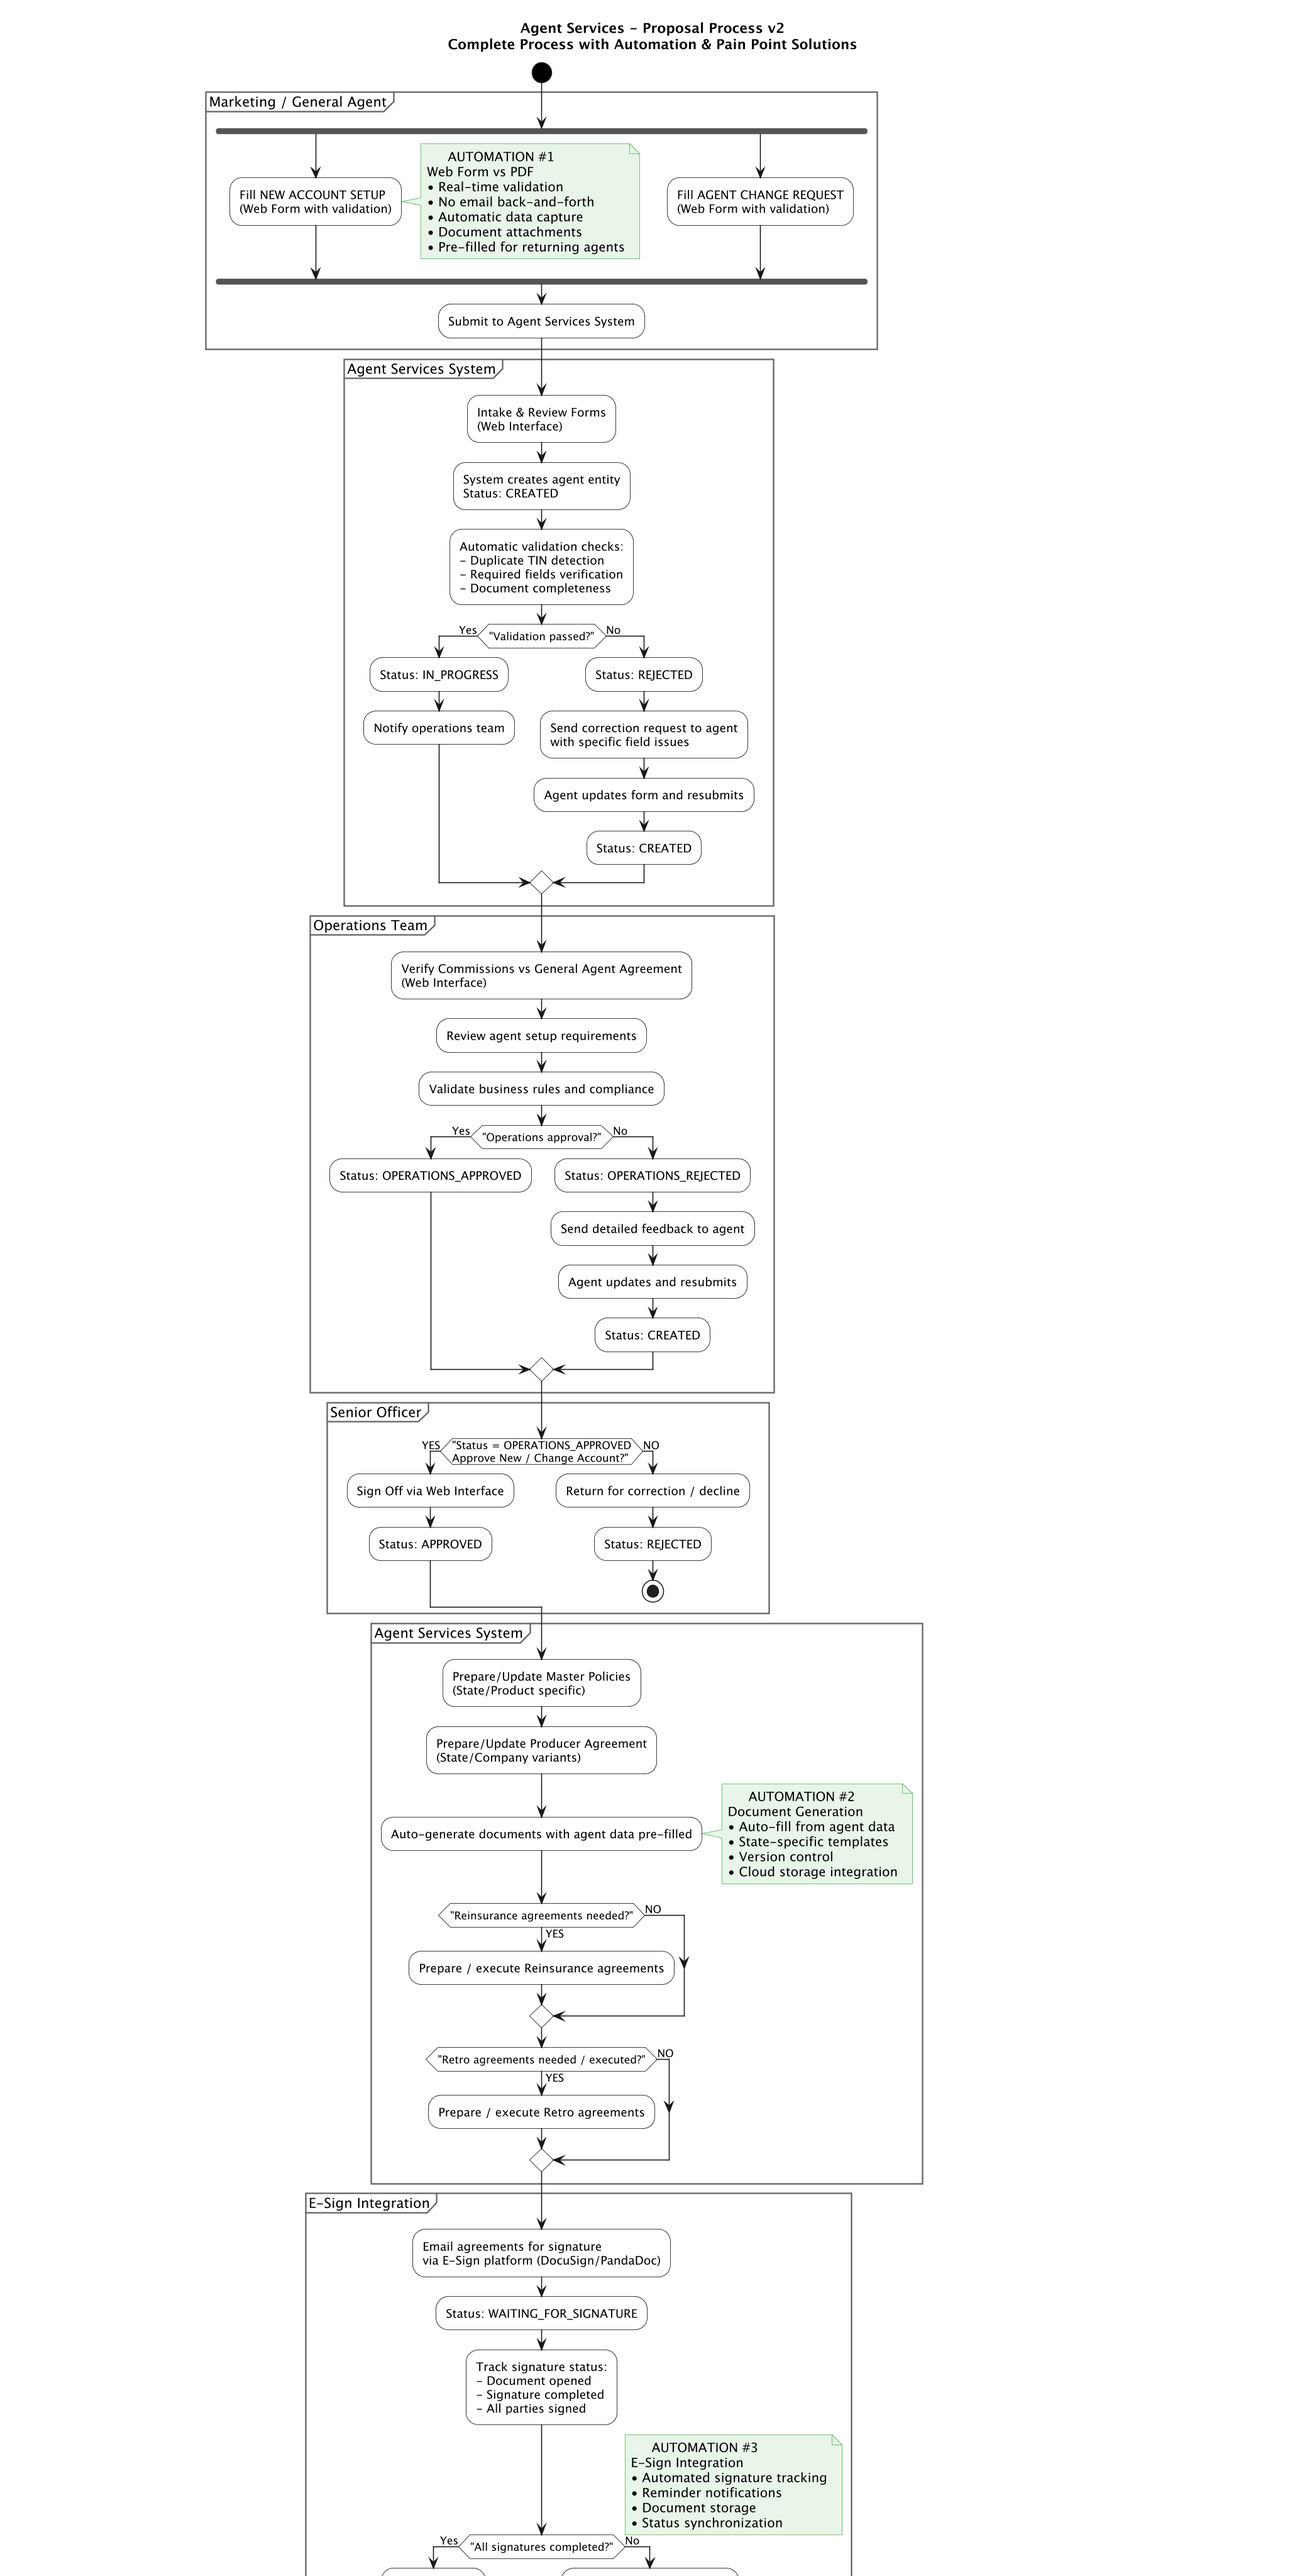
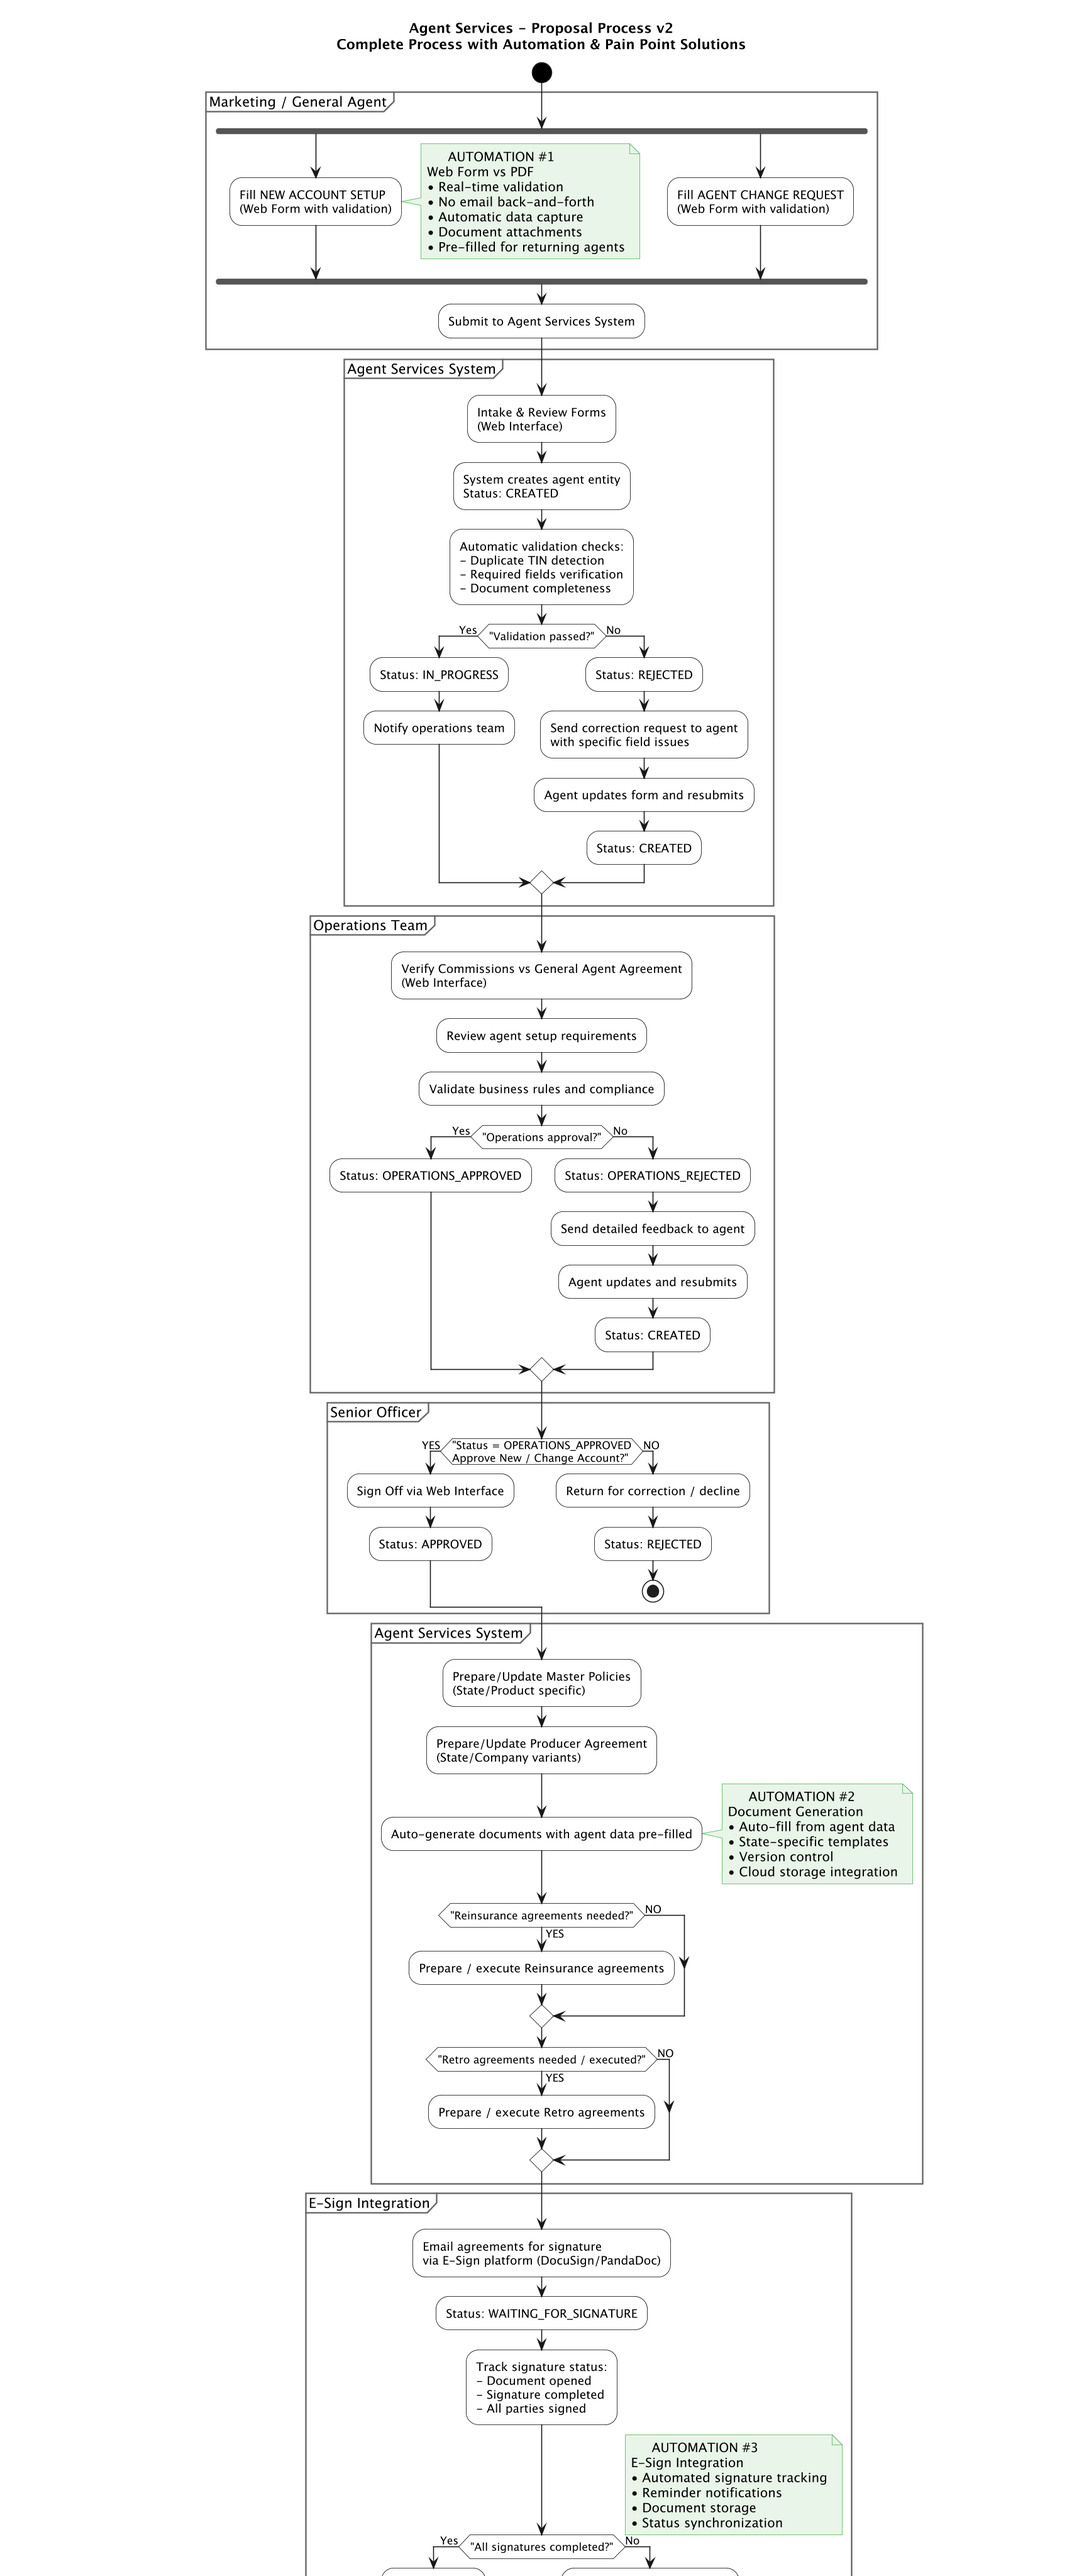
feat: remove AUTOMATION #6 from proposal process; update documentation to reflect 5 automation points instead of 6

Changed region(s): [[0.1537, 0.0, 0.7993, 1.0], [0.3997, 0.9688, 0.4304, 1.0], [0.1537, 0.0938, 0.1845, 0.125]]

diff --git a/Project Documentation/Agent Services - Project Overview.md b/Project Documentation/Agent Services - Project Overview.md
@@ -197,7 +197,7 @@ PLATEAU (Existing System)
 
 ### **Target Process Flow Diagram:**
 ![Proposal Process](agent_services_proposal.png)
-*Complete proposal process with all current process elements plus 6 automation points*
+*Complete proposal process with all current process elements plus 5 automation points*
 
 ### **🚀 Automation Points:**
 
@@ -226,10 +226,6 @@ PLATEAU (Existing System)
 - **Proposed:** Automated letter generation with email validation
 - **Benefits:** Reduced manual printing/mailing, integrated appointment management
 
-#### **AUTOMATION #6: Status Tracking & Notifications**
-- **Current:** Manual status tracking and communication
-- **Proposed:** Real-time status updates with automated notifications
-- **Benefits:** Audit trail, performance monitoring, exception handling
 
 ### **Key Features Required (From Team Discussion):**
 
@@ -332,7 +328,7 @@ PLATEAU (Existing System)
 ### **October 16 Technical Deep Dive - Final MVP Proposal:**
 **Complete MVP Proposal** developed by development team:
 - **Comprehensive Process Analysis** - all current process elements identified and documented
-- **6 Key Automation Points** identified for maximum impact and efficiency
+- **5 Key Automation Points** identified for maximum impact and efficiency
 - **Web Form Solution** - replace PDF forms with validated web interfaces
 - **E-Sign Integration** - automated signature tracking and document management
 - **Real-time Status System** - tracking and notifications throughout the process
